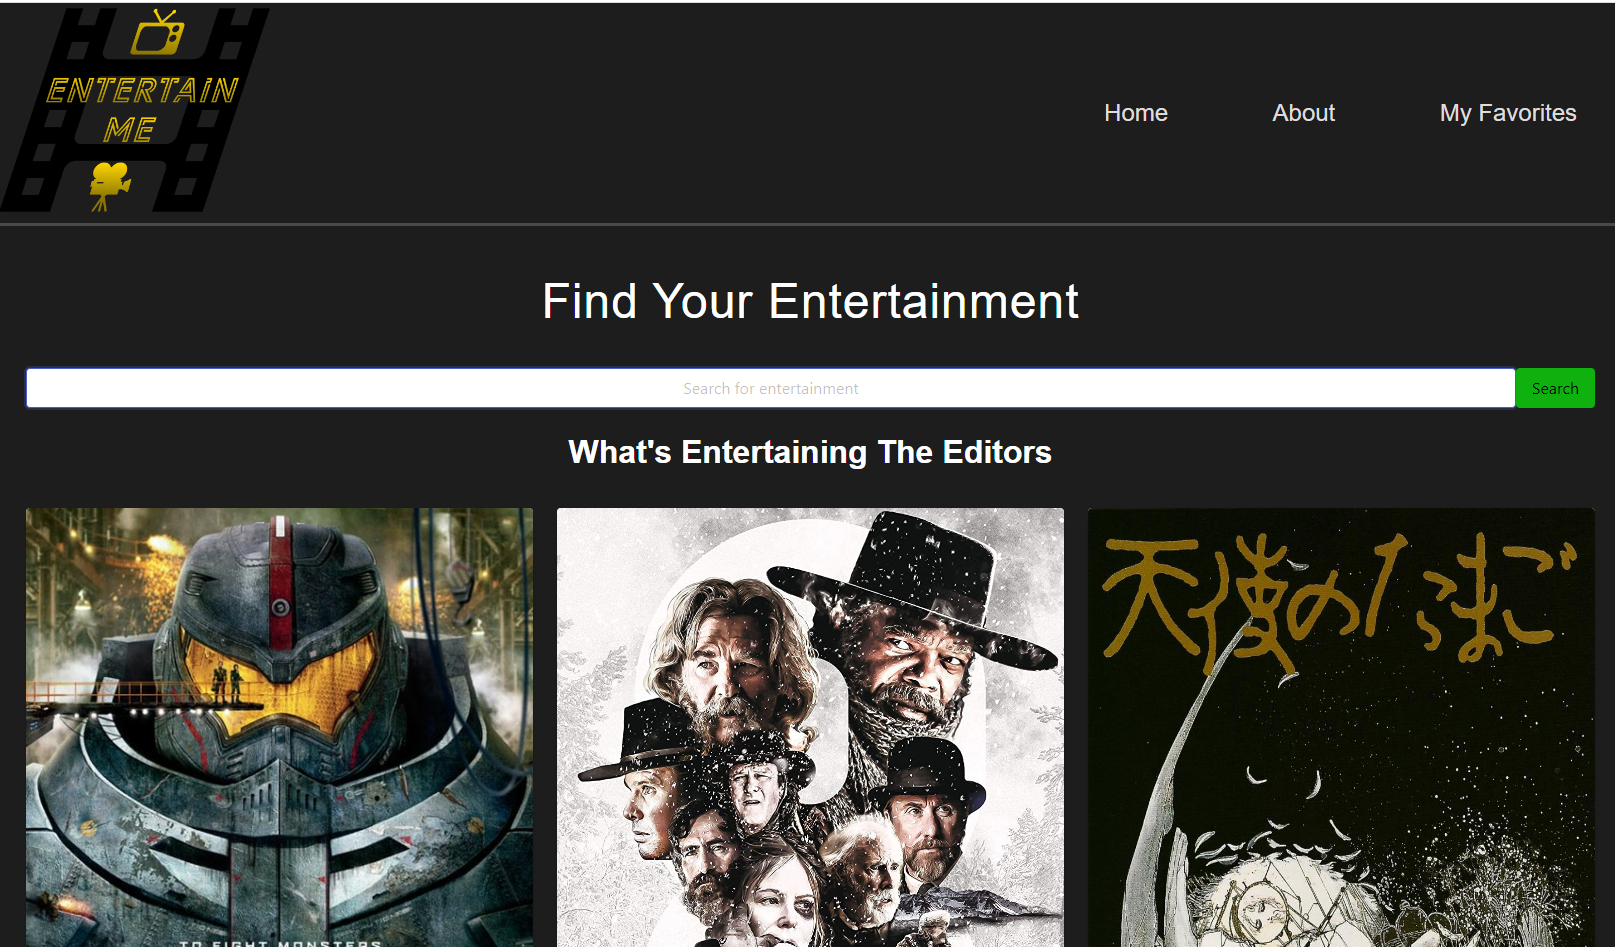
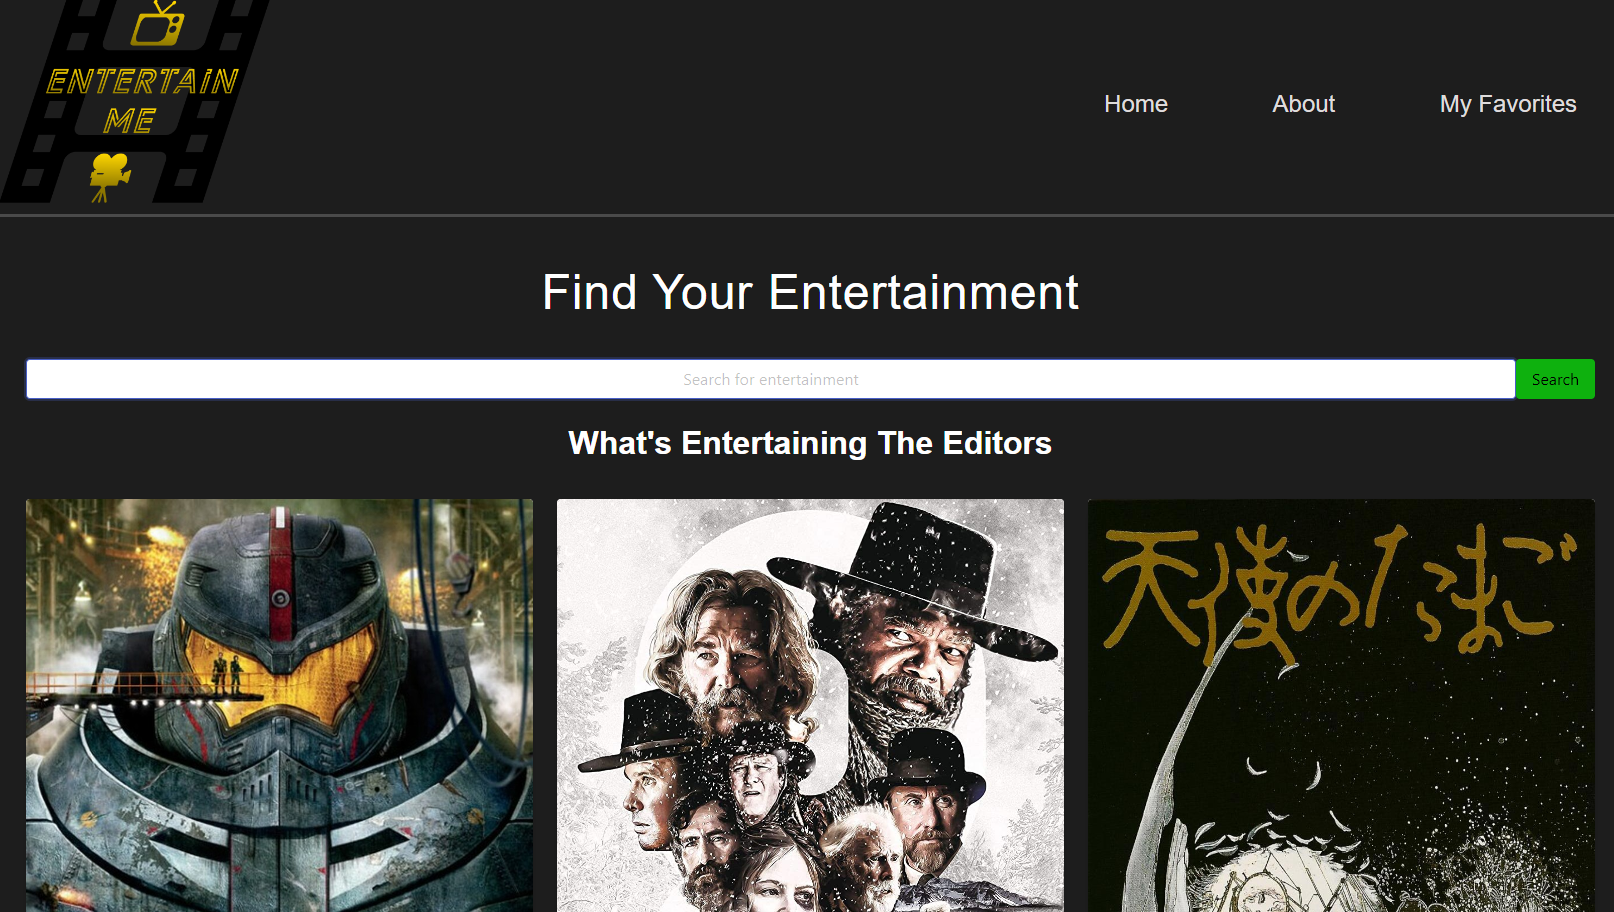
small styling adjustment on cards

diff --git a/src/assets/index.css b/src/assets/index.css
@@ -21,6 +21,8 @@
     box-shadow: 0 0 15px whitesmoke;
    margin: 20px;
    width: 25rem;
+   border-radius: 10px;
+   border: 2px solid var(--secondary);
 }
 
 .AboutMe {
@@ -48,6 +50,8 @@
     box-shadow: 0 0 15px whitesmoke;
     background-color: var(--primary);
     color: whitesmoke;
+    border-radius: 10px;
+    border: 2px solid var(--secondary);
 }
 
 .cardHeader {
@@ -58,6 +62,7 @@
     padding: 0px;
     border: none;
     font-weight: bold;
+    height: 50px;
 }
 
 .headerVid {
